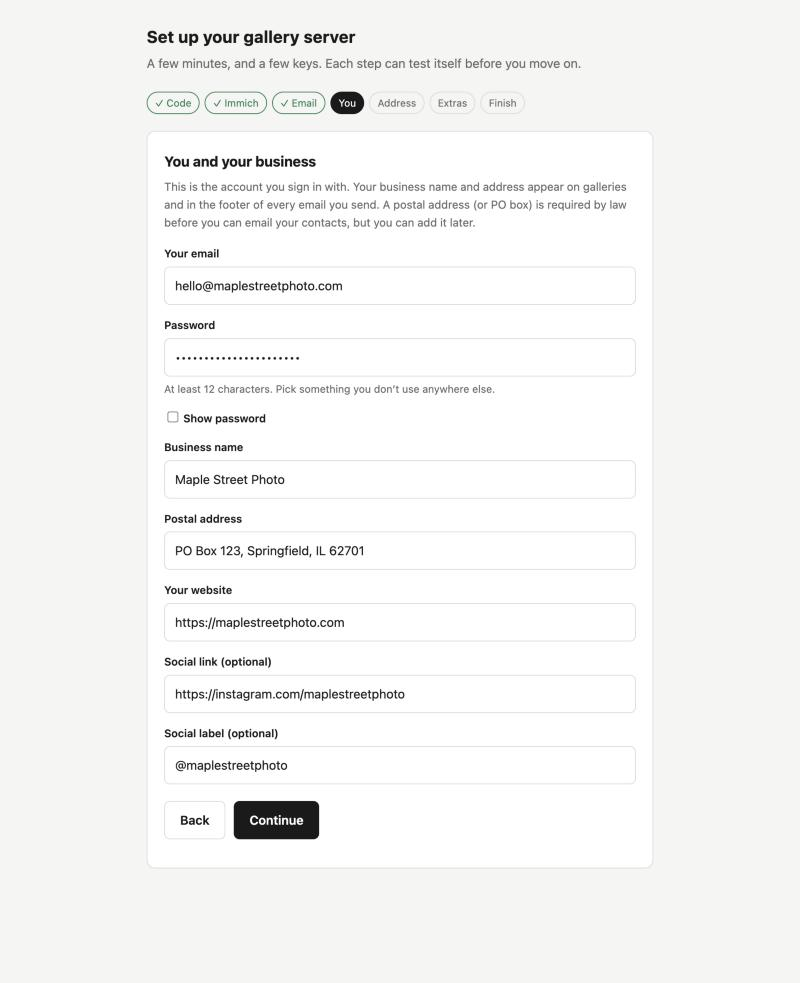
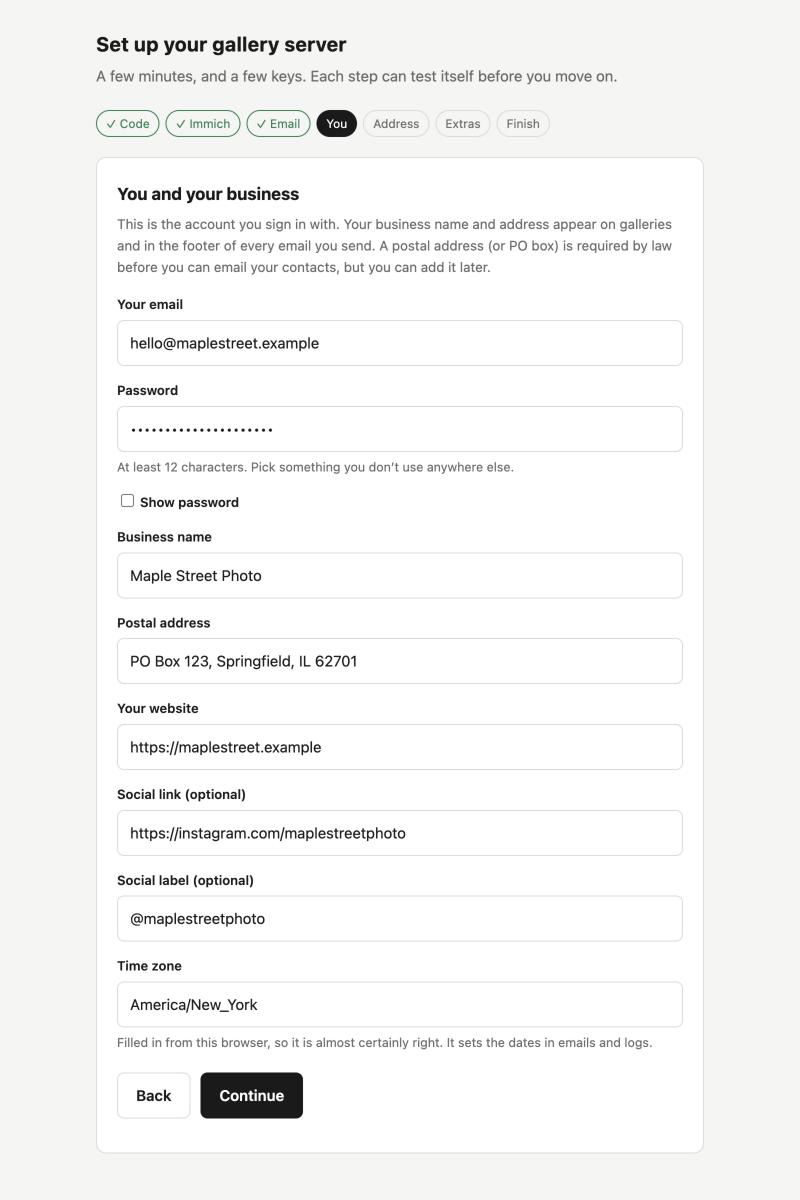
Time zone is detected from the browser during setup, so nobody has to edit it; retake the You screenshot

Changed region(s): [[0.1562, 0.1526, 0.8438, 0.9461], [0.125, 0.0305, 0.75, 0.1221]]

diff --git a/web/setup.html b/web/setup.html
@@ -339,6 +339,7 @@ function emailView(){
   if (results.email) showResults("email", results.email);
 }
 
+function browserZone(){ try { return Intl.DateTimeFormat().resolvedOptions().timeZone || ""; } catch (e) { return ""; } }
 function youView(){
   var needAdmin = !S.adminExists && !S.envAdmin;
   frame("You and your business",
@@ -351,11 +352,12 @@ function youView(){
     + field("BRAND_URL", "Your website", { ph: "https://yourstudio.com" })
     + field("BRAND_SOCIAL", "Social link (optional)", { ph: "https://instagram.com/yourstudio" })
     + field("BRAND_SOCIAL_LABEL", "Social label (optional)", { ph: "@yourstudio" })
+    + field("TZ", "Time zone", { value: setting("TZ").value || browserZone(), ph: "America/Chicago", note: "Filled in from this browser, so it is almost certainly right. It sets the dates in emails and logs." })
     + nav(true, true, "Continue"));
   bindBack();
   if ($("showpw")) $("showpw").onchange = function(){ $("pw").type = this.checked ? "text" : "password"; };
   $("next").onclick = function(){
-    var brand = collect(["BRAND_NAME", "BRAND_ADDRESS", "BRAND_URL", "BRAND_SOCIAL", "BRAND_SOCIAL_LABEL"]);
+    var brand = collect(["BRAND_NAME", "BRAND_ADDRESS", "BRAND_URL", "BRAND_SOCIAL", "BRAND_SOCIAL_LABEL", "TZ"]);
     var next = function(){ saveSettings(brand).then(function(ok){ if (ok) go(cur + 1); }); };
     if (!needAdmin) return next();
     $("next").disabled = true;
@@ -422,7 +424,7 @@ function reviewView(){
   };
   add("Immich address", "IMMICH_URL"); add("Immich read key", "IMMICH_API_KEY"); add("Immich write key", "IMMICH_WRITE_KEY");
   add("Resend key", "RESEND_API_KEY"); add("Send from", "MAIL_FROM"); add("Your email", "ADMIN_EMAIL");
-  add("Business name", "BRAND_NAME"); add("Postal address", "BRAND_ADDRESS"); add("Public address", "PUBLIC_URL");
+  add("Business name", "BRAND_NAME"); add("Time zone", "TZ"); add("Postal address", "BRAND_ADDRESS"); add("Public address", "PUBLIC_URL");
   var twoFa = S.emailVerified ? "On. A code is emailed each time you sign in." : "Off, because email isn’t set up and tested yet. You can turn it on later.";
   frame("Ready to finish",
     'Check the details, then finish. Your gallery server will start right away.',

diff --git a/docs/install/HAVE-IMMICH.md b/docs/install/HAVE-IMMICH.md
@@ -20,9 +20,22 @@ its address in the setup page.
 
 ## Option B: a compose file (Synology, Ugreen and other NAS apps with a "Project" screen)
 
-If you would rather paste a file into your NAS's Docker app, use
-[`docker-compose.quickstart.yml`](../../docker-compose.quickstart.yml). Save it as `docker-compose.yml`, set your time
-zone, create the project, and then follow [Docker](DOCKER.md) to find the setup code in the container log.
+If you would rather paste a file into your NAS's Docker app, do this. (Button names differ between NAS brands and
+versions; match them by meaning.)
+
+1. Open [`docker-compose.quickstart.yml`](../../docker-compose.quickstart.yml) and copy the whole file. You don't need to
+   change anything in it; the setup page fills in your time zone for you.
+2. In your NAS's Docker app, go to **Project** (Synology: **Container Manager › Project › Create**; Ugreen: **Docker › Project**)
+   and create a project named `immichset`. If it asks for a folder, use one on your data volume, such as
+   `/volume1/docker/immichset`. Choose to paste or create a `docker-compose.yml` and paste the file. Don't pick a template.
+3. Start (deploy) it. The first time it downloads the program, which takes a minute.
+4. Open the project's or container's **Logs**. You'll see two lines: `Open this in your web browser: ...` and
+   `Setup code: XXXX-XXXX-XXXX`. That code is made for your install; use the one on your screen.
+5. Open `http://<your NAS address>:3000/setup` from a computer on the same network and enter the code. Your NAS address is
+   the one you use to open the NAS's own web page.
+
+This route installs only immichset. On the Immich step choose "I already have Immich" and enter its address
+(`http://<NAS address>:2283`) and an API key.
 
 ## Then, the setup page
 

diff --git a/docs/SETUP.md b/docs/SETUP.md
@@ -57,7 +57,7 @@ zone in it, then:
 docker compose up -d
 ```
 
-(Without Compose: `docker run -d --name immichset --init --restart unless-stopped -p 3000:3000 -e TZ=America/New_York -e BACKUP_DIR=/backups -v immichset-data:/data -v immichset-backups:/backups ghcr.io/natephotos/immichset:latest`)
+(Without Compose: `docker run -d --name immichset --init --restart unless-stopped -p 3000:3000 -e BACKUP_DIR=/backups -v immichset-data:/data -v immichset-backups:/backups ghcr.io/natephotos/immichset:latest`)
 
 The first start prints a **setup code**. Find it with:
 
